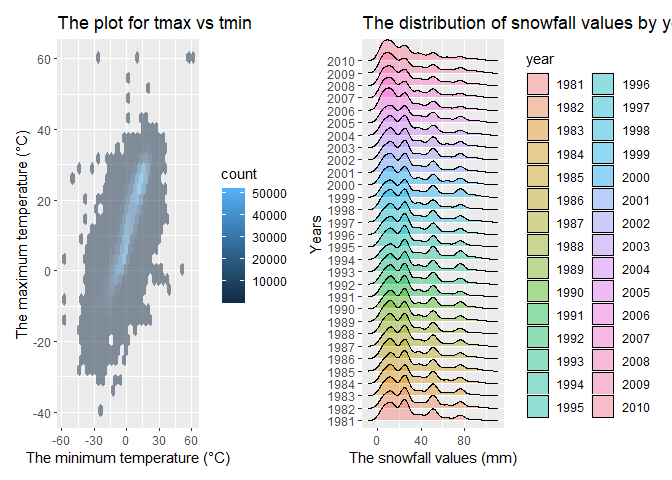
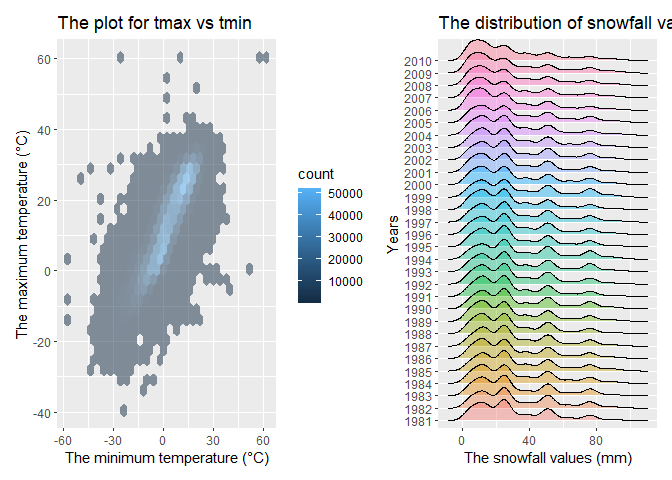
problem3;changed the plot legend

diff --git a/p8105_hw3_yh3429.md b/p8105_hw3_yh3429.md
@@ -357,7 +357,7 @@ snowfall_dens_p =
       x= "The snowfall values (mm)",
       y= "Years",
       title= "The distribution of snowfall values by year"
-    )+theme(legend.position = "right")
+    )+theme(legend.position = "none")
 ```
 
 #### Juxtapose two plots
